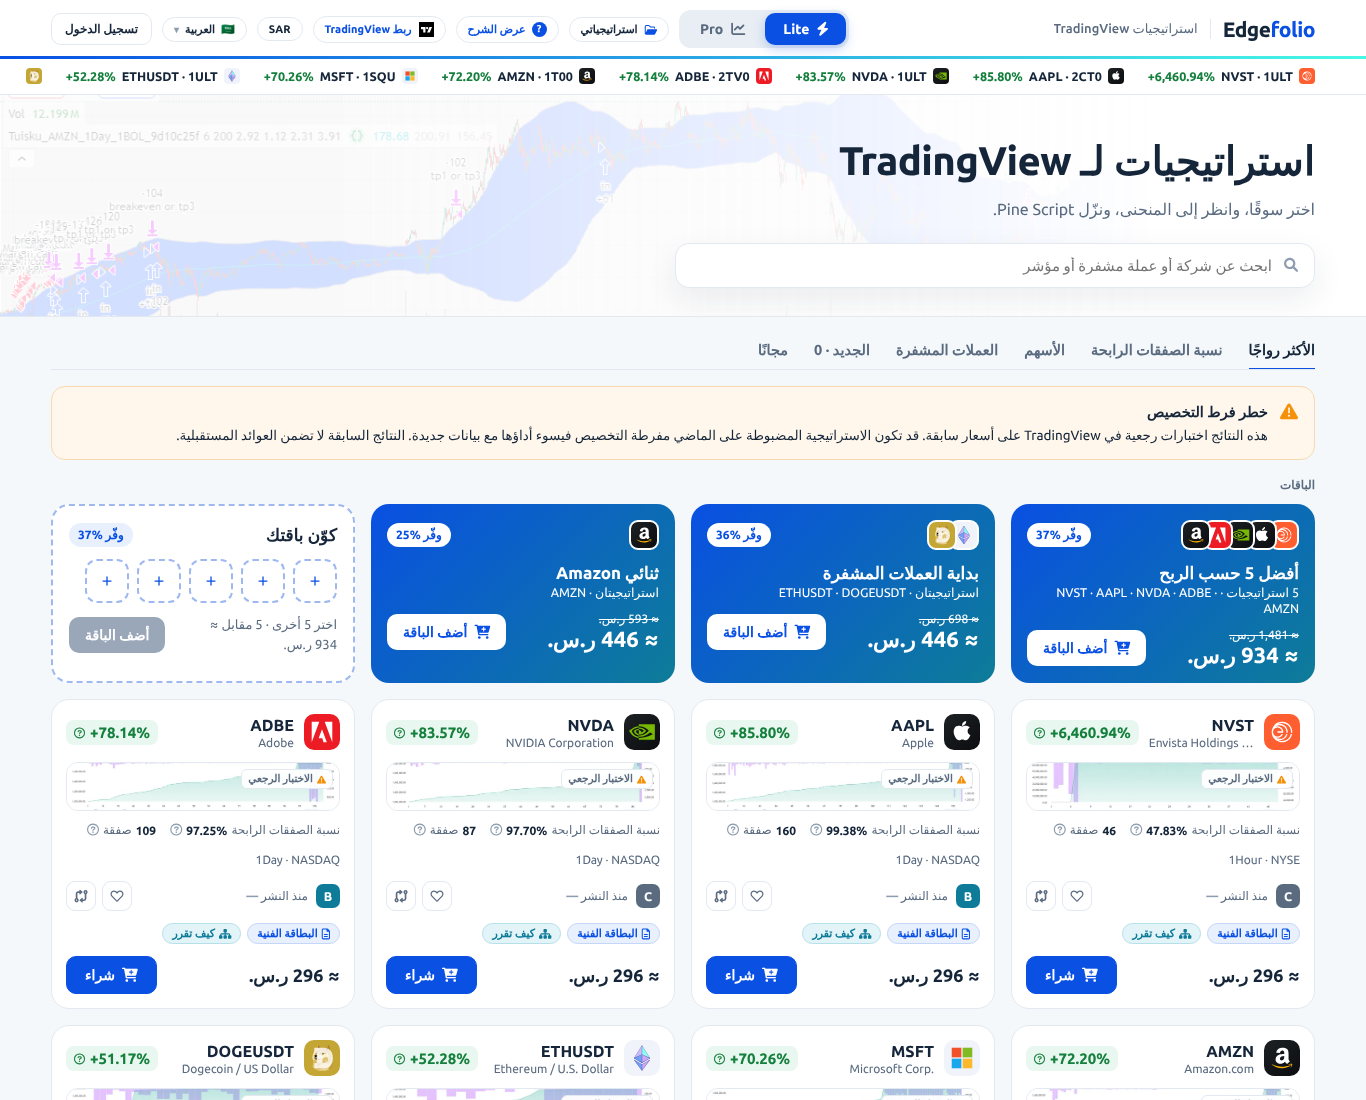
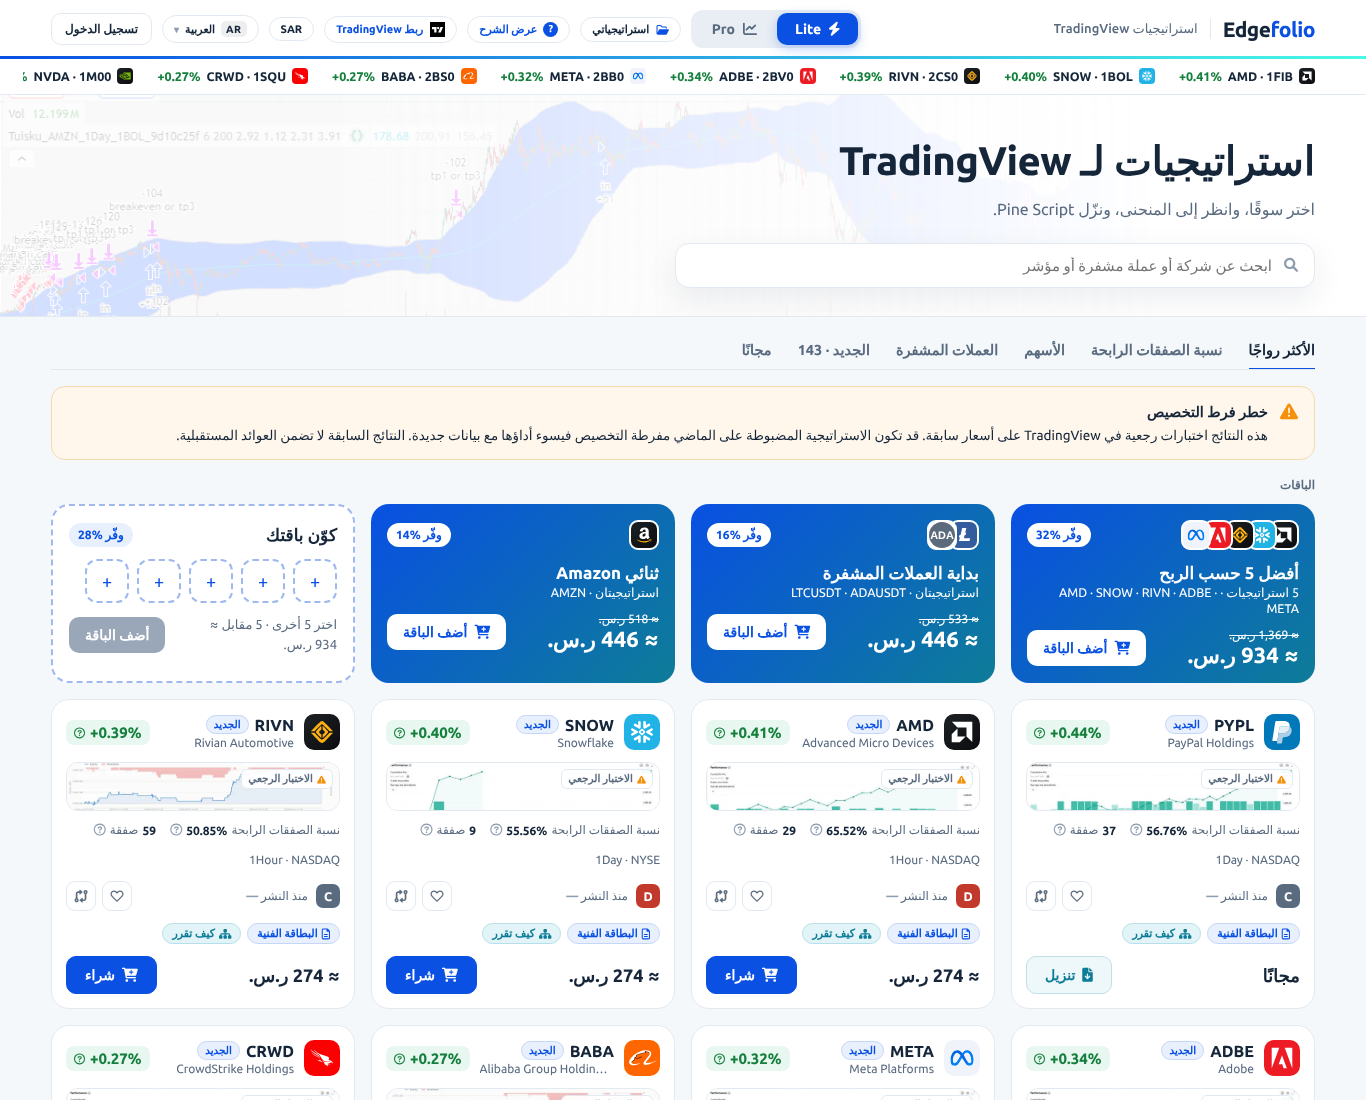
Core 0.31.0; the walk on the 2026-10 catalogue, and its screenshots in the user flow
- requirements.txt pins the core at v0.31.0: nothing in it is mandatory for a tool
  (CHANGELOG, «Para las herramientas» of P1, P3, P4, P6 and P7). .env.example gains
  ZLECITOOL_FACTOR_KEY and ZLECITOOL_AUDIT_DAYS, and says the panel now asks its admins
  for a second factor.
- tools/screenshots.py walks the 2026-10 catalogue (SNOW 1BOL for the strategy page;
  ADBE and AMD at 60 % or more for the filters) and takes one more shot: the proof of an
  email on /mine, before confirming it.
- docs/FLUJO_USUARIO.md shows each screen with its screenshot; the README's captions and
  counts follow the new catalogue (143 strategies, not 2.834).
- tests/test_layout.py: every screenshot README.md and docs/*.md show exists.

Claude-Session: https://claude.ai/code/session_01DngmNHsEAX774MkraYKpDR

diff --git a/tools/screenshots.py b/tools/screenshots.py
@@ -1,5 +1,6 @@
 # -*- coding: utf-8 -*-
-"""Recorre la tienda en un navegador de verdad y guarda las capturas del README en docs/img/.
+"""Recorre la tienda en un navegador de verdad y guarda las capturas del README y de docs/FLUJO_USUARIO.md
+en docs/img/.
 
     PORT=5105 python app.py                 # en una terminal, con el .env de desarrollo (PAYPAL_MODE=fake,
                                             # DISCOUNT_CODES=demo20=0.20, sin SMTP: los correos, a <datos>/mail)
@@ -20,6 +21,8 @@ consola del navegador (también de la CSP). Las descargas necesitan los scripts 
 (flask --app app edgefolio restore-scripts).
 
 SHOP_URL (por defecto http://localhost:5105), CHROMIUM_PATH (un navegador) y OUT (por defecto docs/img).
+Todas salen con una base de datos nueva; en otra vuelta, la cuenta ya ha confirmado el correo y la de esa
+confirmación (edgefolio_mine_proof.png) no se repite.
 """
 import email
 import json
@@ -43,7 +46,7 @@ MAIL = Path(os.environ.get("ZLECITOOL_DATA_DIR") or ROOT / "data") / "mail"
 BUYER = "buyer@example.com"            # quien paga en el PayPal de prueba
 ACCOUNT = "ana@example.com"            # la cuenta del núcleo con la que se entra después
 PASSWORD = "probando-la-tienda-1"
-STRATEGY = "AAPL_1Day_2CT0_8a979adf"   # la de la página de la estrategia y el árbol
+STRATEGY = "SNOW_1Day_1BOL_7abec5de"   # la de la página de la estrategia y el árbol (catálogo de 2026-10)
 UI = json.loads((ROOT / "i18n" / "ui.json").read_text(encoding="utf-8"))
 RED = "rgb(192, 57, 43)"               # el borde del campo con un error (#c0392b)
 problems = []
@@ -203,17 +206,17 @@ def main():
         expect(ui("payNote").split("{amount}")[1].strip() not in strip, "English Pro shows the payNote")
         shot(page, "pro", height=1480)
 
-        step("Pro with filters: two symbols and a win rate of 90% or more")
+        step("Pro with filters: two symbols and a win rate of 60% or more")
         panel = page.locator("aside").first
         # dispatched clicks: the sticky cart strip covers the panel's rows once the page has scrolled
         panel.get_by_text("Symbol", exact=True).dispatch_event("click")
         button(page, "Deselect all").dispatch_event("click")
-        for name in ("Apple (AAPL)", "NVIDIA Corporation (NVDA)"):
+        for name in ("Adobe (ADBE)", "Advanced Micro Devices (AMD)"):
             panel.get_by_text(name, exact=True).dispatch_event("click")
         panel.get_by_text("Symbol", exact=True).dispatch_event("click")
         panel.get_by_text("Win Rate (%)", exact=True).dispatch_event("click")
         low = panel.locator("input").nth(-2)
-        low.fill("90")
+        low.fill("60")
         low.press("Enter")
         page.get_by_text("Clear all").first.wait_for()
         page.wait_for_timeout(1200)
@@ -291,7 +294,10 @@ def main():
             button(page, "Send me the link").click()
             page.get_by_text("Check that inbox", exact=False).wait_for()
             page.goto(emailed_link(BUYER, r"/mine\?proof=", asked), wait_until="networkidle")
-            page.get_by_role("button", name=f"Yes, {BUYER} is mine").click()
+            confirm = page.get_by_role("button", name=f"Yes, {BUYER} is mine")
+            confirm.wait_for()
+            shot(page, "mine_proof", height=900)    # sólo con una cuenta nueva: en otra vuelta ya está confirmado
+            confirm.click()
         page.get_by_role("link", name=".pine").first.wait_for()
         # cada fila: .pine y .zip mientras el enlace vale (si no, «Pedir un enlace nuevo»), y su ficha y su
         # árbol, /s/<id> y /s/<id>/tree

diff --git a/tests/test_layout.py b/tests/test_layout.py
@@ -1,5 +1,6 @@
 # -*- coding: utf-8 -*-
 """Las convenciones del repo que nadie revisa a ojo hasta que fallan."""
+import re
 import runpy
 from pathlib import Path
 
@@ -55,3 +56,14 @@ def test_gunicorn_does_not_preload_the_app(monkeypatch):
 def test_the_local_port_is_the_launchers():
     assert 'os.environ.get("PORT", "5105")' in (ROOT / "app.py").read_text(encoding="utf-8")
     assert "PORT=5105" in (ROOT / ".env.example").read_text(encoding="utf-8")
+
+
+def test_every_screenshot_the_docs_show_exists():
+    """Las capturas del README y de docs/*.md (las de tools/screenshots.py, en docs/img/): una que se
+    renombra o no se hizo deja un hueco en GitHub que nadie ve hasta que lo abre."""
+    missing = []
+    for doc in [ROOT / "README.md", *sorted((ROOT / "docs").glob("*.md"))]:
+        for src in re.findall(r'(?:src="|\]\()([^")\s]+\.png)', doc.read_text(encoding="utf-8")):
+            if not (doc.parent / src).is_file():
+                missing.append(f"{doc.relative_to(ROOT)}: {src}")
+    assert not missing, f"capturas que no están: {missing}"

diff --git a/docs/FLUJO_USUARIO.md b/docs/FLUJO_USUARIO.md
@@ -85,13 +85,31 @@
   - con sesión en el escritorio, baja a dos filas, porque el correo de la cuenta ocupa unos 210 px. Está pedido al núcleo en `CAMBIOS.md`.
 - Los avisos flotantes son de la tienda.
 
+<table>
+<tr>
+<td width="50%"><img src="img/edgefolio_arabic.png" alt="La tienda en árabe, de derecha a izquierda"></td>
+<td width="50%"><img src="img/edgefolio_spanish.png" alt="La ficha de una estrategia en español, con los precios en euros"></td>
+</tr>
+<tr>
+<td><sub>En árabe, de derecha a izquierda, con los precios en moneda local.</sub></td>
+<td><sub>En español, con los precios en euros. El idioma lo cambia el menú del núcleo, al momento.</sub></td>
+</tr>
+</table>
+
 ---
 
 ## 1 · Lite (por defecto)
 
 **Archivos:** `static/js/views/lite.js`, `lib/vals_shop.js` y `lib/vals_cart.js`.
 
+![Lite con tres estrategias y un código en el carrito flotante](img/edgefolio_lite.png)
+
+<sub>Lite con tres estrategias en el carrito y el código «demo20»: −35 % (15 % del tramo y 20 % del código).</sub>
+
 ### Recorrido de bienvenida
+
+![El recorrido de bienvenida, paso 1 de 3](img/edgefolio_tour.png)
+
 - Es el de la tienda, no el del núcleo, porque el del núcleo solo sale con sesión.
 - Sale en la tienda la primera vez que se entra desde este navegador [Navegador `edgefolio-tour-v1`]. Si se entra por otra dirección, no sale.
 - Tiene 3 pasos:
@@ -131,6 +149,8 @@ Solo cuenta la respuesta más nueva: una búsqueda vieja que llega tarde no pisa
   - Se puede marcar una estrategia que ya va en un pack del carrito, que sale marcada «En el carrito». Al añadir el pack propio, ese otro pack sale del carrito.
   - El pack propio solo va al presupuesto con las 5 elegidas.
   - [Servidor] Cuesta 249 US$, o la suma de sus precios si es menor.
+
+![Crea tu pack: el selector con cinco estrategias elegidas](img/edgefolio_pack.png)
 
 ### Tarjetas
 
@@ -173,6 +193,8 @@ Las imágenes de las tarjetas son miniaturas WebP (API #6).
 
 **Archivos:** `views/pro.js`, `lib/filters.js` (arma la consulta) y `lib/vals_shop.js`.
 
+![Pro: el panel de filtros, la lista en filas y la franja del carrito](img/edgefolio_pro.png)
+
 **Panel de filtros** (📱 encima de la lista). Cada cambio vuelve a pedir la lista (API #2) 150 ms después del último cambio, con `facets=1` cuando cambian los filtros.
 - El contador «N · estrategias mostradas» y **Restablecer filtros**.
 - **Solo GRATIS** → `free=1`.
@@ -184,6 +206,10 @@ Las imágenes de las tarjetas son miniaturas WebP (API #6).
   - Las opciones, su recuento y los iconos los da el servidor.
   - Con todo quitado, la lista se queda vacía.
 - [Servidor] Los filtros se combinan con Y, y las opciones de un mismo desplegable, con O.
+
+![Pro con dos símbolos y una tasa de acierto del 60 % o más](img/edgefolio_pro_filters.png)
+
+<sub>Dos símbolos (ADBE y AMD) y la tasa de acierto desde el 60 %: el recuento, las etiquetas, los histogramas y la lista salen del servidor.</sub>
 
 **Encima de la lista:**
 - **Ordenar** → `sort`, siempre de mayor a menor.
@@ -200,10 +226,14 @@ Las imágenes de las tarjetas son miniaturas WebP (API #6).
   - 📱 se desplaza de lado.
 - «CLAVE · indicador» abre la página del indicador en TradingView (`ind_url`). Al pasar el ratón, sale su explicación (`ind_text`).
 
+![Los mismos filtros en la vista Tabla](img/edgefolio_table.png)
+
 **Comparar:**
 - Admite hasta 3 estrategias, desde las tarjetas de Lite y desde la Tabla.
 - La píldora **Comparar · N** abre la tabla comparativa, con el mejor valor de cada fila en verde. En el precio, gana el más bajo.
 - No llama al servidor.
+
+![Tres estrategias comparadas, con el mejor valor de cada fila en verde](img/edgefolio_compare.png)
 
 **La franja del carrito y la escalera** se explican en la pantalla 5.
 
@@ -228,6 +258,8 @@ Las imágenes de las tarjetas son miniaturas WebP (API #6).
 - el registro completo (API #3): el indicador, su autor y las versiones;
 - la vista previa, de `/static/assets/previews/…pine` (cortada);
 - con sesión, Mis estrategias (API #15), una vez y en silencio, para saber si hay que mostrar «Actualización disponible».
+
+![La ficha de una estrategia: cabecera, compra, backtest, gráficos y resultados](img/edgefolio_strategy.png)
 
 **Qué ve y qué hace:**
 1. **Cabecera:**
@@ -273,6 +305,8 @@ Las imágenes de las tarjetas son miniaturas WebP (API #6).
 - `static/js/tree.js`, que se carga al abrir la pestaña;
 - `views/tree/*.js`;
 - `static/trees/features.json` y `static/trees/ui.json`.
+
+![Cómo decide: el árbol, los deslizadores y el resultado con su regla](img/edgefolio_tree.png)
 
 **De dónde sale el árbol:**
 - **Visitante:** de la vista previa cortada.
@@ -324,6 +358,10 @@ Las imágenes de las tarjetas son miniaturas WebP (API #6).
 
 Sobre la escalera: un tramo cuenta solo por encima de su importe. Por eso dice 53,01 US$ donde el diseño dice 53,00, y con el carrito vacío dice 160,01 US$.
 
+![Pro en español con dos estrategias en el carrito: el total en euros y lo que se paga en dólares con PayPal](img/edgefolio_pro_es.png)
+
+<sub>En moneda local: el total en euros y, debajo, «Pagas … US$ con PayPal». El carrito flotante de Lite, con un código, sale en la pantalla 1.</sub>
+
 **Descuentos** [Servidor]:
 - Por tramos: más de 160 US$ → 15 %; más de 290 → 20 %; más de 500 → 25 %; más de 1.000 → 40 %; más de 2.500 → 70 %.
 - Un código suma su porcentaje al del tramo. El descuento total tiene un tope del 70 %.
@@ -359,6 +397,17 @@ Sobre la escalera: un tramo cuenta solo por encima de su importe. Por eso dice 5
 
 **Archivos:** `views/dialogs.js` y `lib/vals_pages.js`.
 
+<table>
+<tr>
+<td width="50%"><img src="img/edgefolio_free_error.png" alt="El diálogo con un correo mal escrito: el aviso bajo el campo y el borde en rojo"></td>
+<td width="50%"><img src="img/edgefolio_free.png" alt="El diálogo después de enviar: el correo ha salido"></td>
+</tr>
+<tr>
+<td><sub>Un correo mal escrito: el texto del núcleo bajo el campo, con el borde rojo.</sub></td>
+<td><sub>Hecho: el enlace va por correo, nunca en la respuesta.</sub></td>
+</tr>
+</table>
+
 1. **Se abre** con **Descargar** en una estrategia gratis (pantallas 1–3), o con «Conseguirla gratis» en el árbol.
    - El cursor va al campo del correo, salvo en pantallas táctiles.
    - Al cerrarse, el foco vuelve al botón que lo abrió.
@@ -390,6 +439,17 @@ Sobre la escalera: un tramo cuenta solo por encima de su importe. Por eso dice 5
 ## 7 · Gracias (/thanks)
 
 **Archivos:** `views/thanks.js`; el tutorial de instalación está en `views/dialogs.js`.
+
+<table>
+<tr>
+<td width="50%"><img src="img/edgefolio_install.png" alt="Justo después de pagar: el tutorial de instalación, paso 1 de 5"></td>
+<td width="50%"><img src="img/edgefolio_thanks.png" alt="La página de gracias: el pedido y una fila por estrategia con sus descargas"></td>
+</tr>
+<tr>
+<td><sub>La primera vez, el tutorial de instalación se abre solo.</sub></td>
+<td><sub>Al cerrarlo: el pedido, «Descargar todo» y una fila por estrategia.</sub></td>
+</tr>
+</table>
 
 1. PayPal vuelve a `/thanks?token=<pedido>`. Sin `token`, la página lleva a la tienda.
 2. **El cobro** (API #9) cobra el pedido y devuelve el recibo.
@@ -424,6 +484,17 @@ Sobre la escalera: un tramo cuenta solo por encima de su importe. Por eso dice 5
 ## 8 · Mis estrategias (/mine)
 
 **Archivos:** `views/mine.js` y `lib/vals_pages.js`.
+
+<table>
+<tr>
+<td width="50%"><img src="img/edgefolio_mine_proof.png" alt="Mis estrategias al abrir el enlace del correo: confirmar que el correo con el que se pagó es de la cuenta"></td>
+<td width="50%"><img src="img/edgefolio_mine.png" alt="Mis estrategias: cada compra con su .pine y su .zip, su ficha y cómo decide, y las favoritas"></td>
+</tr>
+<tr>
+<td><sub>Se compró sin cuenta: el enlace del correo pregunta si ese correo es de la cuenta.</sub></td>
+<td><sub>Confirmado, las compras de ese correo salen en la lista.</sub></td>
+</tr>
+</table>
 
 **Entrar:**
 - Pide sesión. Sin ella, el núcleo lleva a `/login?next=/mine` y después vuelve aquí.
@@ -482,6 +553,19 @@ Nunca entra algo solo porque coincide con el correo de alta.
 ## 9 · Móvil (390 px) con la barra de abajo
 
 **Archivo:** `views/phonebar.js`. Sale por debajo de 640 px.
+
+<table>
+<tr>
+<td align="center"><img src="img/edgefolio_phone.png" alt="Lite en un móvil, con la barra de abajo" width="240"></td>
+<td align="center"><img src="img/edgefolio_phone_cart.png" alt="El carrito flotante y la píldora Comparar, sobre la barra de abajo" width="240"></td>
+<td align="center"><img src="img/edgefolio_phone_tree.png" alt="Cómo decide en un móvil, con los deslizadores encima del árbol" width="240"></td>
+</tr>
+<tr>
+<td><sub>Lite, con la barra de abajo.</sub></td>
+<td><sub>El carrito flotante y Comparar, encima de la barra.</sub></td>
+<td><sub>Cómo decide: los deslizadores, encima del árbol.</sub></td>
+</tr>
+</table>
 
 | Botón | Qué pasa |
 |---|---|

diff --git a/README.md b/README.md
@@ -1,9 +1,10 @@
 # Edgefolio (`edgefolio`) · la tienda de estrategias de TradingView
 
-La tienda de tuisku.eu, que se vende como **Edgefolio**: un catálogo de **2.834 estrategias de
-TradingView** (Pine Script v5) con su backtest. Se miran en una vista sencilla, **Lite**, o se filtran en
-**Pro**; se ve cómo decide cada una; se compran con PayPal y se descarga el script. El servidor pone el
-precio de cada carrito, cobra, y sólo entrega los scripts de pago por enlaces firmados que caducan.
+La tienda de tuisku.eu, que se vende como **Edgefolio**: un catálogo de **estrategias de TradingView**
+(Pine Script v5; 143 en el de octubre de 2026) con su backtest. Se miran en una vista sencilla,
+**Lite**, o se filtran en **Pro**; se ve cómo decide cada una; se compran con PayPal y se descarga el
+script. El servidor pone el precio de cada carrito, cobra, y sólo entrega los scripts de pago por
+enlaces firmados que caducan.
 
 Es una **herramienta zlecitool**: una app Flask sobre [zlecitool-core](https://github.com/Leci37/zlecitool-core),
 como `cv_lin` o `md_pdf`. La barra (con la palabra Edgefolio), el idioma, las cuentas, la seguridad, el
@@ -53,11 +54,11 @@ entero y lo publica; lo que trae lo fija `catalogue/contract.json`, el contrato 
 
 <table>
 <tr>
-<td width="50%"><img src="docs/img/edgefolio_pro_filters.png" alt="Pro con dos símbolos y un porcentaje de aciertos del 90 % o más"></td>
+<td width="50%"><img src="docs/img/edgefolio_pro_filters.png" alt="Pro con dos símbolos y un porcentaje de aciertos del 60 % o más"></td>
 <td width="50%"><img src="docs/img/edgefolio_table.png" alt="Los mismos filtros en la vista de tabla"></td>
 </tr>
 <tr>
-<td><sub><b>Filtrar.</b> Apple y NVIDIA, aciertos ≥ 90 %: el recuento, las etiquetas, los histogramas y la lista salen del servidor.</sub></td>
+<td><sub><b>Filtrar.</b> Adobe y AMD, aciertos ≥ 60 %: el recuento, las etiquetas, los histogramas y la lista salen del servidor.</sub></td>
 <td><sub>El mismo resultado, en una tabla que se ordena.</sub></td>
 </tr>
 <tr>
@@ -74,7 +75,7 @@ entero y lo publica; lo que trae lo fija `catalogue/contract.json`, el contrato 
 </tr>
 <tr>
 <td><sub><b>Comparar</b> hasta 3; lo mejor de cada fila, en verde.</sub></td>
-<td><sub><b>Crea tu pack:</b> 5 estrategias por un precio, buscadas entre las 2.834.</sub></td>
+<td><sub><b>Crea tu pack:</b> 5 estrategias por un precio, buscadas en todo el catálogo de pago.</sub></td>
 </tr>
 <tr>
 <td><img src="docs/img/edgefolio_free.png" alt="Una estrategia gratis: el correo ha salido"></td>
@@ -593,8 +594,8 @@ edgefolio/                 la tienda: routes.py (las rutas), models.py (las tabl
                            release.py (importar un paquete del generador)
 templates/edgefolio/       shop.html, la página sobre zt/base.html
 static/                    la página tal cual (sin compilar): js/ (Preact + htm, las vistas del diseño),
-                           css/ (edgefolio.css y theme.css), vendor/, trees/, img/, assets/ (5.668
-                           gráficos, 2.834 vistas previas, iconos)
+                           css/ (edgefolio.css y theme.css), vendor/, trees/, img/, assets/ (dos
+                           gráficos y una vista previa por estrategia, iconos)
 i18n/ui.json               los textos de la tienda, en 8 idiomas
 catalogue/                 catalogue.csv, indicators.csv, bundles.json, fx.json; contract.json (el contrato
                            con el generador); release.json (de qué ejecución del generador es el catálogo:
